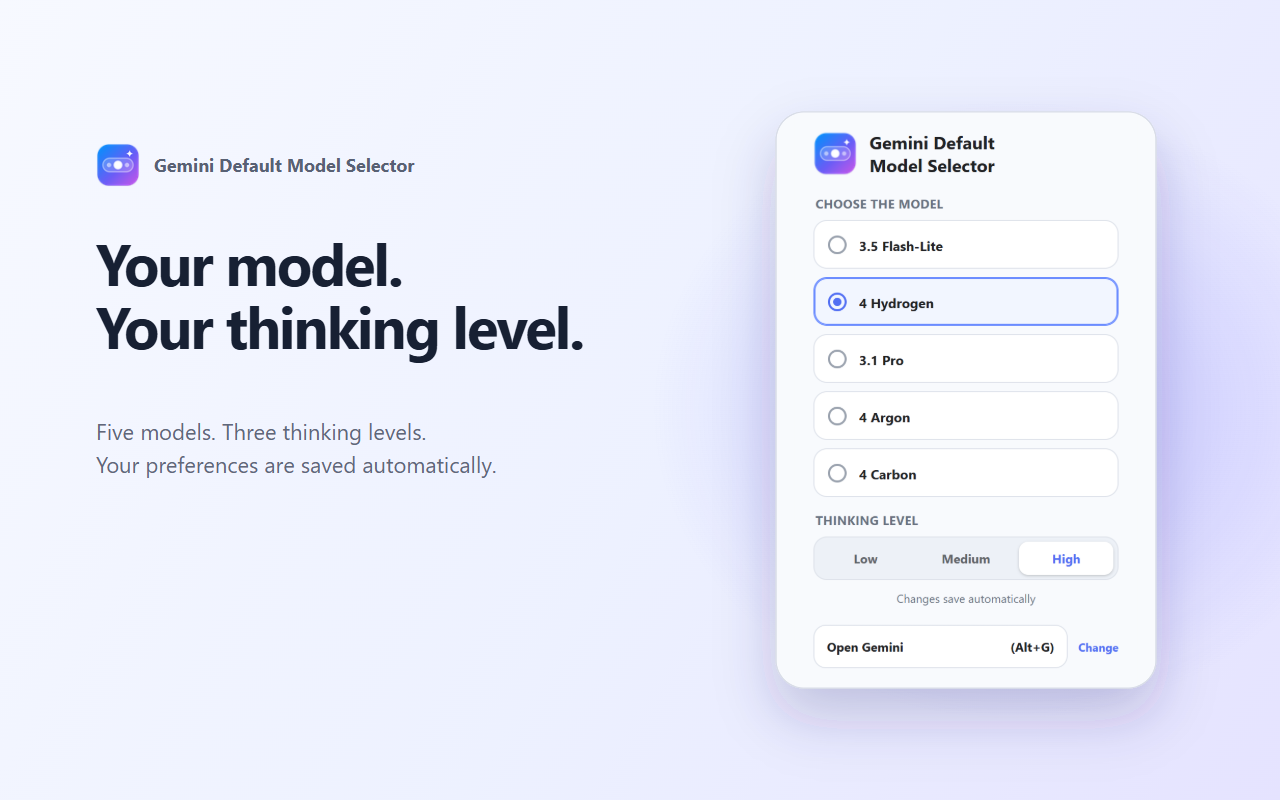
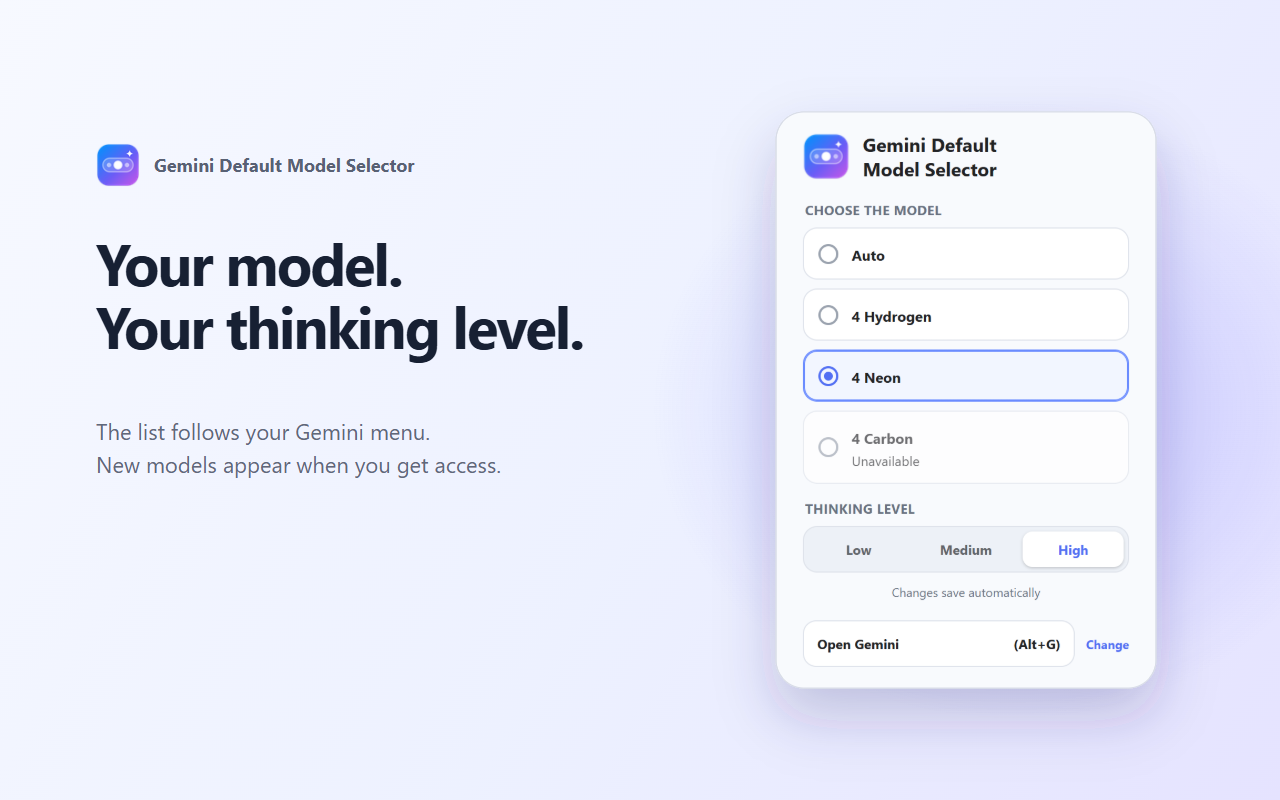
updated description and screenshots.

diff --git a/assets/store/source/render-store-images.py b/assets/store/source/render-store-images.py
@@ -1,9 +1,10 @@
-"""Render store artwork from the extension's current popup.
+"""Render the store screenshots from the current popup and regenerate the promo tile.
 
 Requires Python, Pillow, Playwright, and an installed Chrome or Edge browser.
 Run from any directory: python assets/store/source/render-store-images.py
 """
 
+import json
 import os
 from pathlib import Path
 
@@ -14,6 +15,12 @@ from playwright.sync_api import sync_playwright
 SOURCE_DIR = Path(__file__).resolve().parent
 STORE_DIR = SOURCE_DIR.parent
 PROJECT_DIR = SOURCE_DIR.parents[2]
+EXAMPLE_CATALOG = [
+    {"id": "auto", "label": "Auto", "available": True},
+    {"id": "hydrogen-4", "label": "4 Hydrogen", "available": True},
+    {"id": "mode:neon", "label": "4 Neon", "available": True},
+    {"id": "carbon-4", "label": "4 Carbon", "available": False},
+]
 
 
 def find_browser():
@@ -33,27 +40,41 @@ def make_opaque(path):
         image.convert("RGB").save(path)
 
 
-def capture_popup(browser, theme, model):
+def capture_popup(browser, theme, model, thinking_level):
     context = browser.new_context(viewport={"width": 330, "height": 800},
                                   color_scheme=theme, device_scale_factor=2)
     # The isolated capture uses example preferences, never the user's browser profile.
     # Only read APIs are mocked; saving or applying preferences is not simulated.
     page = context.new_page()
+    example = {"model": model, "thinkingLevel": thinking_level, "catalog": EXAMPLE_CATALOG}
     page.add_init_script("""
+        const { model, thinkingLevel, catalog } = EXAMPLE;
         globalThis.chrome = {
-          storage: { sync: { get(_keys, callback) {
-            callback({ model: MODEL_ID, thinkingLevel: "high" });
-          } } },
+          runtime: {},
+          storage: {
+            local: { get(_key, callback) { callback({ modelCatalog: catalog }); } },
+            sync: { get(_keys, callback) { callback({ model, thinkingLevel }); } },
+            onChanged: { addListener() {} }
+          },
+          tabs: { query(_options, callback) { callback([]); } },
+          permissions: { async contains() { return true; } },
           commands: { async getAll() {
             return [{ name: "open-gemini", shortcut: "Alt+G" }];
           } }
         };
-    """.replace("MODEL_ID", repr(model)))
+    """.replace("EXAMPLE", json.dumps(example)))
     page.goto((PROJECT_DIR / "popup.html").as_uri())
     page.locator("#status").filter(has_text="Changes save automatically").wait_for()
     page.locator("#open-gemini-shortcut").filter(has_text="(Alt+G)").wait_for()
-    if not page.locator(f'input[name="model"][value="{model}"]').is_checked():
-        raise RuntimeError("The popup did not display the requested example model.")
+    selected_model = page.locator(f'input[name="model"][value="{model}"]')
+    selected_level = page.locator(f'input[name="thinkingLevel"][value="{thinking_level}"]')
+    if not selected_model.is_checked() or not selected_level.is_checked():
+        raise RuntimeError("The popup did not display the requested example preferences.")
+    if selected_level.is_disabled() != (model == "auto"):
+        raise RuntimeError("The popup displayed the wrong thinking controls for the example model.")
+    locked_model = page.locator('input[name="model"][value="carbon-4"]')
+    if not locked_model.is_disabled():
+        raise RuntimeError("The popup did not show Carbon as unavailable.")
     page.evaluate("document.fonts.ready")
     output = SOURCE_DIR / f"popup-settings-{theme}.png"
     page.locator("body").screenshot(path=str(output), animations="disabled")
@@ -63,27 +84,33 @@ def capture_popup(browser, theme, model):
         return image.size
 
 
-def render_artwork(browser, source_name, output_name):
-    page = browser.new_page(viewport={"width": 1280, "height": 800}, device_scale_factor=1)
+def render_artwork(browser, source_name, output_name, size):
+    width, height = size
+    page = browser.new_page(viewport={"width": width, "height": height}, device_scale_factor=1)
     page.goto((SOURCE_DIR / source_name).as_uri())
     page.evaluate("document.fonts.ready")
-    page.locator("svg").screenshot(path=str(STORE_DIR / output_name), animations="disabled")
-    make_opaque(STORE_DIR / output_name)
+    output = STORE_DIR / output_name
+    page.locator("svg").screenshot(path=str(output), animations="disabled")
+    make_opaque(output)
     page.close()
+    with Image.open(output) as image:
+        if image.size != size or image.mode != "RGB":
+            raise RuntimeError(f"{output_name} must be an opaque {width} x {height} image.")
 
 
 def main():
     with sync_playwright() as playwright:
         browser = playwright.chromium.launch(executable_path=find_browser(), headless=True)
         try:
-            for theme, model in (("light", "hydrogen-4"), ("dark", "argon-4")):
-                size = capture_popup(browser, theme, model)
+            for theme, model, level in (("light", "mode:neon", "high"), ("dark", "auto", "medium")):
+                size = capture_popup(browser, theme, model, level)
                 print(f"Popup {theme}: {size[0]} x {size[1]}")
-            for source_name, output_name in (
-                ("store-shot-settings.svg", "screenshot-1-settings-1280x800.png"),
-                ("store-shot-applied.svg", "screenshot-2-applied-1280x800.png"),
+            for source_name, output_name, size in (
+                ("store-shot-settings.svg", "screenshot-1-settings-1280x800.png", (1280, 800)),
+                ("store-shot-applied.svg", "screenshot-2-applied-1280x800.png", (1280, 800)),
+                ("store-promo-small.svg", "promo-small-440x280.png", (440, 280)),
             ):
-                render_artwork(browser, source_name, output_name)
+                render_artwork(browser, source_name, output_name, size)
                 print(f"Rendered {output_name}")
         finally:
             browser.close()

diff --git a/STORE_LISTING.md b/STORE_LISTING.md
@@ -6,37 +6,28 @@ Gemini Default Model Selector
 
 ## Summary
 
-Automatically applies your preferred Gemini model and thinking level when Gemini opens.
+Set a default Gemini model and thinking level. The model list refreshes from your Gemini menu.
 
 ## Description
 
-Choose the Gemini model and thinking level you want to use by default across visits.
+Start each visit to Gemini with your preferred model and thinking level already set.
 
-Gemini Default Model Selector automatically applies your saved preferences when you open gemini.google.com. You can still switch models manually for the current tab—the extension will not override that choice until the page is reloaded.
+FEATURES
 
-✨ FEATURES
+• Choose from the models in your Gemini menu. New models appear in the extension dynamically as they become available to your account.
+• If your preferred model disappears, the extension uses an available model and keeps your thinking level. Models locked to another plan are marked unavailable.
+• Save Low, Medium, or High. When you choose Auto, your saved level is ready to use the next time you switch to a model with thinking controls.
+• Press Alt+G (Option+G on Mac) to open Gemini and focus the prompt. You can change the shortcut in Chrome's extension settings.
 
-- Choose 3.5 Flash-Lite, 4 Hydrogen, 3.1 Pro, 4 Argon, or 4 Carbon.
-- Support both the new description-first model menu and the previous layout.
-- Show the models available in your Gemini menu, including new entries as they appear.
-- Keep your thinking preference when you choose Auto and restore it when you switch back.
-- Show account-locked models as unavailable. If your preferred model disappears from the menu, use an available model and keep your thinking preference.
-- Automatically migrate saved Flash preferences to Hydrogen.
-- Save a Low, Medium, or High thinking level independently of Gemini's interface language.
-- Support nested thinking menus opened by click or hover, keeping the same fast selection check.
-- Support the legacy Extended thinking toggle: Low disables it; Medium and High enable it.
-- Apply saved preferences automatically when Gemini opens.
-- Keep manual model changes for the current tab.
-- Return focus to the prompt with the caret at the end of the current text after switching.
-- Sync preferences with Chrome Sync.
-- No analytics, ads, or external data transmission.
+HOW TO USE
 
-💥 BONUS
-- Open a new Gemini tab and focus its prompt with Alt+G
-- Change shortcut in Chrome extensions settings
+Open Gemini once to load your model list, then click the extension icon and choose your defaults. Chrome needs to allow the extension to run on gemini.google.com for it to apply them on future visits. You can still change models directly in Gemini for the current tab.
 
+PRIVACY
 
-This extension is not affiliated with Google. Gemini is a trademark of Google LLC.
+The model list stays in your browser. Chrome can sync your preferences across devices when Chrome Sync is enabled. The extension does not collect prompts, chat history, or analytics.
+
+Gemini Default Model Selector is an independent extension. Gemini is a trademark of Google LLC.
 
 ## Single purpose
 
@@ -53,18 +44,18 @@ The extension does not collect, sell, or transmit personal data. It uses `chrome
 
 ## Store images
 
-- Store icon: `assets/icons/icon-128.png`
-- Small promotional image: `assets/store/promo-small-440x280.png`
-- Screenshot 1: `assets/store/screenshot-1-settings-1280x800.png`
-- Screenshot 2: `assets/store/screenshot-2-applied-1280x800.png`
+- [Store icon](assets/icons/icon-128.png)
+- [Small promotional image, 440 × 280](assets/store/promo-small-440x280.png)
+- [Screenshot 1, 1280 × 800 — current model list](assets/store/screenshot-1-settings-1280x800.png)
+- [Screenshot 2, 1280 × 800 — Auto and saved thinking level](assets/store/screenshot-2-applied-1280x800.png)
 
-Editable SVG sources for the icon and screenshots are included under `assets/icons` and `assets/store/source`.
+Editable SVG sources for the icon, screenshots, and promotional tile are included under `assets/icons` and `assets/store/source`.
 
 To regenerate all transparent icon sizes (16, 32, 48, and 128 px) from the SVG, run `python assets/icons/render-icons.py`. The script also updates the icon copies used by the screenshot sources.
 
-Both screenshots show the current extension popup, rendered directly from `popup.html`, `popup.css`, and `popup.js`: light theme with Hydrogen selected, and dark theme with Argon selected. The promotional image and icon do not depend on the model list.
+Both screenshots use the current popup with an example Gemini catalog. The light screenshot shows 4 Neon and High. The dark screenshot shows Auto with Medium saved. The small promotional tile uses the extension icon and a model selection motif.
 
-To regenerate the screenshots after changing the popup, run:
+To regenerate the screenshots and the promotional tile, run:
 
 ```powershell
 python assets/store/source/render-store-images.py

diff --git a/CHROMEWEBSTORE.md b/CHROMEWEBSTORE.md
@@ -11,4 +11,4 @@ Last Updated: 2026-11-19
 | 1.4.0 | 2026-11-19 | Popup показывает модели из текущего меню Gemini. Если предпочитаемая модель исчезла, расширение использует другую доступную модель и сохраняет уровень мышления. Auto сохраняет уровень для следующей модели с такой настройкой. | Draft |
 | 1.3.12 | 2026-11-15 | Повторы открытия меню и применения после временных сбоев; подтверждение reasoning для новой модели; ожидание выбора до закрытия меню; два ограниченных восстановления при загрузке; актуальные настройки при доставке новой вкладке. | Draft |
 
-Каталог моделей хранится в браузере. Перед публикацией нужно обновить скриншоты с прежним списком моделей.
+Материалы для 1.4.0 обновлены: краткое и полное описание, два скриншота актуального popup и малая промоплитка. Текст для карточки и ссылки на PNG собраны в [STORE_LISTING.md](STORE_LISTING.md).
